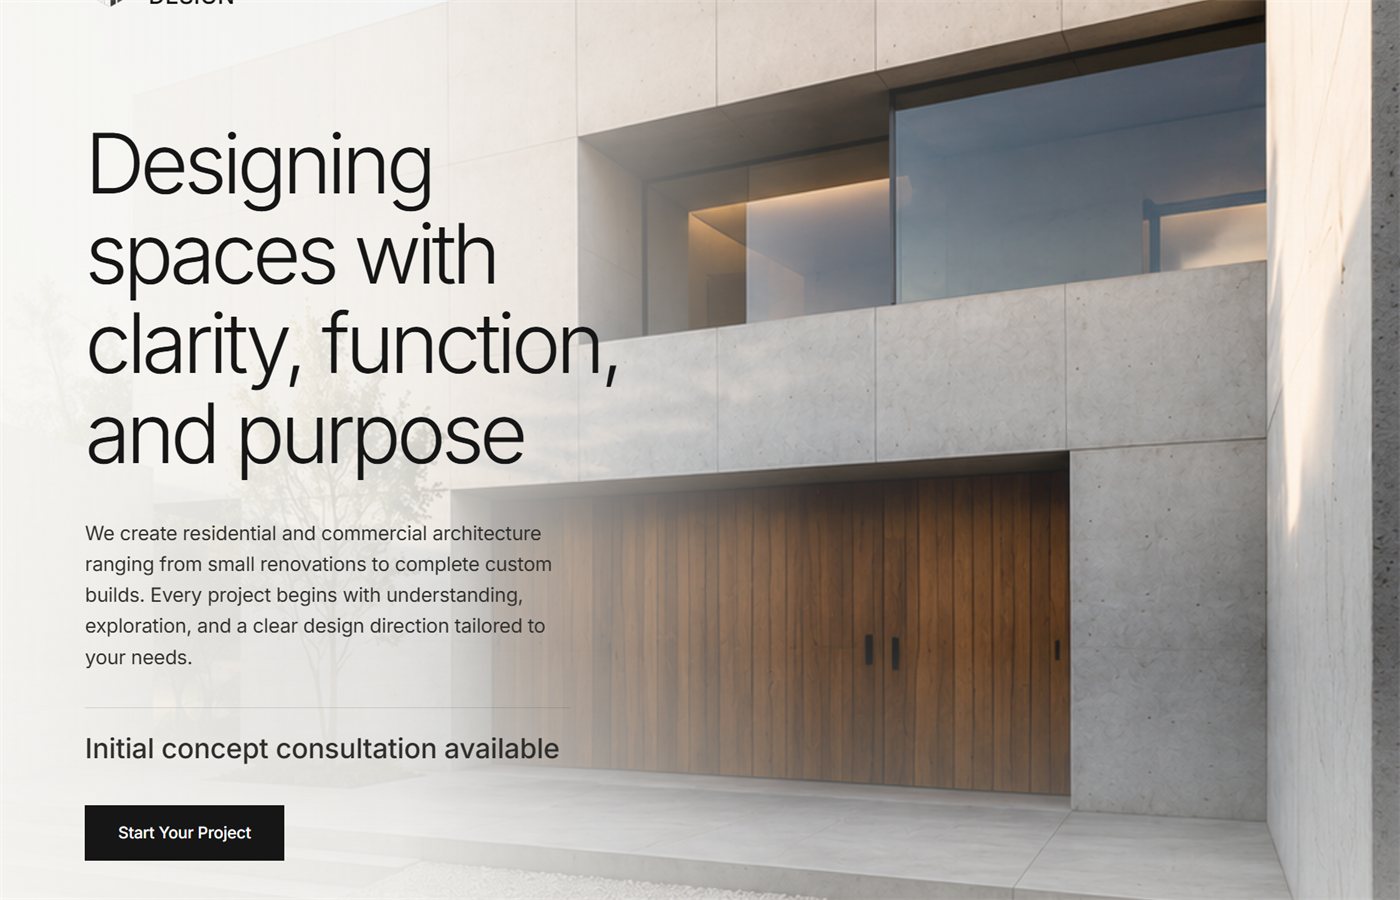
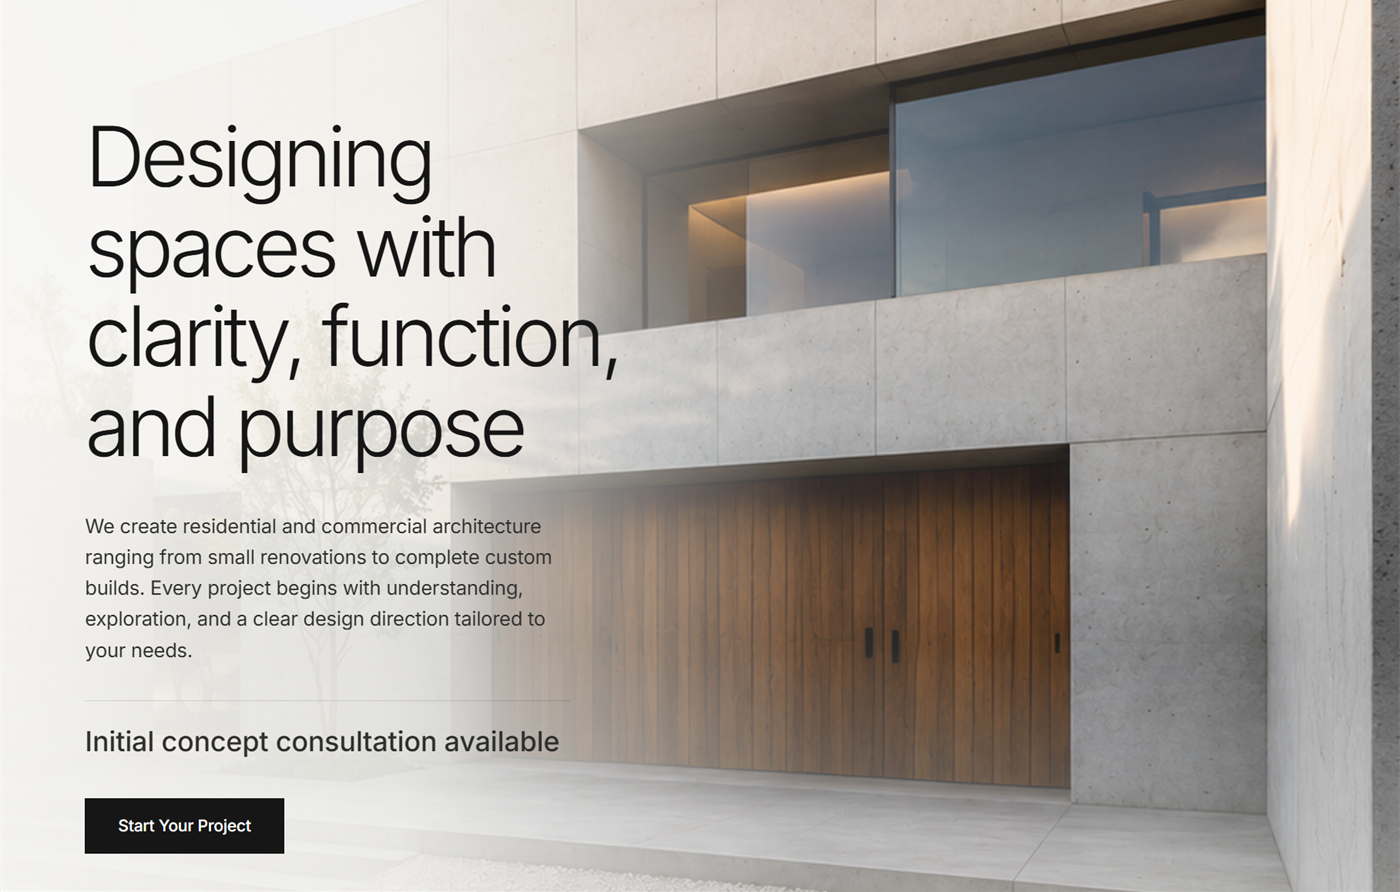
Link showcase cards to live websites

diff --git a/assets/js/showcase-rotator.js b/assets/js/showcase-rotator.js
@@ -3,13 +3,15 @@ const showcaseProjects = [
     tag: "ARCHITECTURE STUDIO",
     title: "Architecture website",
     image: "assets/collage/econset.png",
-    alt: "Architecture studio website screenshot"
+    alt: "Architecture studio website screenshot",
+    url: "https://www.econset.ca"
   },
   {
     tag: "BEAUTY STUDIO",
     title: "Beauty website",
     image: "assets/collage/sepid.png",
-    alt: "Beauty studio website screenshot"
+    alt: "Beauty studio website screenshot",
+    url: "https://sepidbeauty.ca"
   }
 ];
 
@@ -18,9 +20,13 @@ const reduceMotion = window.matchMedia("(prefers-reduced-motion: reduce)").match
 
 if (showcaseStack && showcaseProjects.length) {
   showcaseProjects.forEach((project, index) => {
-    const card = document.createElement("article");
+    const card = document.createElement("a");
     card.className = "showcase-card";
     card.dataset.index = String(index);
+    card.href = project.url;
+    card.target = "_blank";
+    card.rel = "noopener noreferrer";
+    card.setAttribute("aria-label", `Visit ${project.title}`);
     card.innerHTML = `
       <div class="showcase-browser-bar" aria-hidden="true">
         <span></span><span></span><span></span>
@@ -41,6 +47,7 @@ if (showcaseStack && showcaseProjects.length) {
       const position = (index - activeIndex + cards.length) % cards.length;
       card.dataset.position = String(Math.min(position, 3));
       card.setAttribute("aria-hidden", position > 0 ? "true" : "false");
+      card.tabIndex = position === 0 ? 0 : -1;
     });
   }
 

diff --git a/site.css b/site.css
@@ -631,8 +631,14 @@ h2 {
   border-radius: 14px;
   background: var(--card);
   box-shadow: var(--shadow-soft);
+  cursor: pointer;
   transform-origin: 50% 100%;
   transition: transform .78s cubic-bezier(.2, .75, .2, 1), opacity .55s ease, filter .55s ease;
+}
+
+.showcase-card:focus-visible {
+  outline: 3px solid rgba(49, 95, 70, .28);
+  outline-offset: 4px;
 }
 
 .showcase-card[data-position="0"] { z-index: 4; opacity: 1; transform: translate3d(0, 0, 0); }
